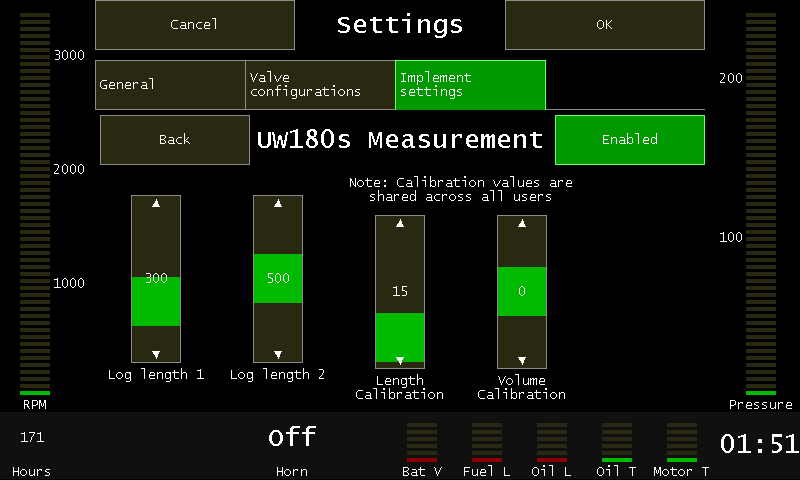
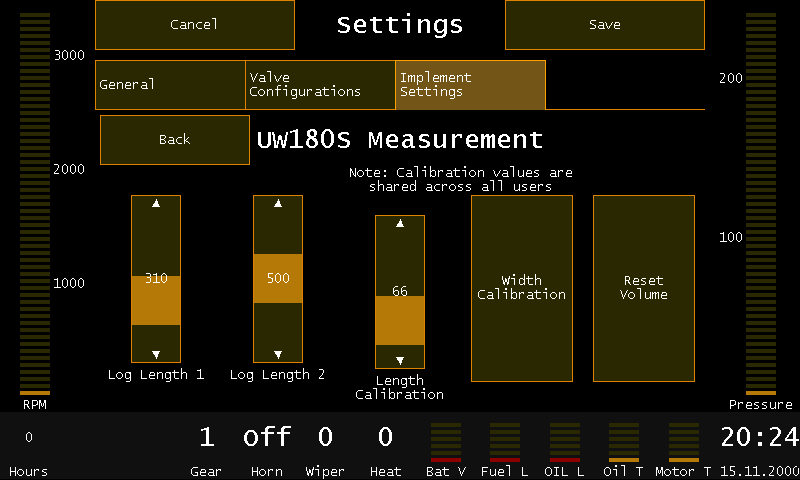
uw180s manual translations send

diff --git a/docs/manual/uw_dspl_manual.tex b/docs/manual/uw_dspl_manual.tex
@@ -22,7 +22,6 @@
 \end{center}
 \vspace{1cm}
 \begin{center}
-\includegraphics[width=8cm]{img/Usevolt.png}   % Bilingual logo
 \end{center}
 
 
@@ -224,8 +223,22 @@ Implement settings are used to configure the settings in the currently selected 
 \fig{img/settings_uw180s}{Implement settings screen}{settings_implement}
 
 \begin{tabular}{ L{0.2\textwidth} L{0.66\textwidth} }
+\textbf{General} & UW180s general settings define miscellaneous settings that affect the overall performance of the UW180s harvester head. \\
 \textbf{Log Measurement} & UW180s measurement device settings are used to enabled of disable the measuring system as well as calibrating it. \\
 \textbf{Valve Configurations} & UW180s hydraulic valve configurations. Similar to base machine valve configurations in \autoref{ch:settings_valves}. \\
+\end{tabular}
+
+\FloatBarrier
+\subsection{UW180s general settings}\label{ch:settings_uw180s_meas}
+
+\fig{img/settings_uw180s_general}{UW180s measurement settings screen}{settings_uw180s_general}
+
+\begin{tabular}{ L{0.2\textwidth} L{0.66\textwidth} }
+\textbf{Back} & Returns back to UW180s Implement settings screen \\
+\textbf{Rollers grab time} & Specifies the amount of closing force that UW180s holds the tree with rollers while feeding. Higher value results in stronger grab of the tree. \\
+\textbf{Blades grab time} & Specifies the amount of closing force that UW180s holds the tree with blades while feeding. Higher value results in stronger grab of the tree. \\
+\textbf{Tilt float enable} & If the UW180s is assemblied with a tilt floating valve, enabling this button will enable the tilt float feature after using the saw to fell a tree. The float is disabled by manually using the tilt. \\
+\textbf{Tilt on left thumb} & If this button is enabled, the left thumb joystick rocker switch is used to manually control the tilt. When this button is disabled, tilt is controlled with left keypad buttons. \\
 \end{tabular}
 
 \FloatBarrier
@@ -238,8 +251,22 @@ Implement settings are used to configure the settings in the currently selected 
 \textbf{Enabled} & When selected (button is green), the measuring device is enabled. \\
 \textbf{Log length 1} & The 1st log target length in millimeters. \\
 \textbf{Log length 2} & The 2nd log target length in millimeters. \\
-\textbf{Length Calibration} & Calibrates the length measurement. The value indicates how logn distance the log travels on each length measurement sensor's pulse. Increasing the calibration value decreases the actual length of the logs. \\
-\textbf{Volume Calibration} & Calibrates the volume calculation. Works as a after-scaler in the volume calculation. Increasing the calibration value causes the calculated volume to increase as well. \\
+\textbf{Length Calibration} & Calibrates the length measurement. The value indicates how long distance the log travels on each length measurement sensor's pulse. Increasing the calibration value decreases the actual length of the logs. \\
+\textbf{Width Calibration} & Shows the width and volume calibration window. \\
+\textbf{Reset Volume} & Resets the calculated volume to 0. \\
+\end{tabular}
+
+\FloatBarrier
+\subsection{UW180s width calibration settings}\label{ch:settings_uw180s_width}
+
+\fig{img/settings_uw180s_meas_width}{UW180s width settings screen}{settings_uw180s_width}
+
+\begin{tabular}{ L{0.2\textwidth} L{0.66\textwidth} }
+\textbf{Back} & Returns back to UW180s Implement settings screen \\
+\textbf{Calibrate MIN angles} & Calibrates the closed-state of the UW180s rollers. The rollers should be closed to their minimum position before clicking this button. \\
+\textbf{Calibrate MAX angles} & Calibrates the open-state of the UW180s rollers. The rollers should be opened to their maximum position before clicking this button. \\
+\textbf{Min diam} & Sets the diameter of the tree in millimeters when the UW180s rollers are fully closed. \\
+\textbf{Max diam} & Sets the diameter of the tree in millimeters when the UW180s rollers are fully opened. \\
 \end{tabular}
 
 \FloatBarrier

diff --git a/docs/manual/uw_naytto_manuaali.tex b/docs/manual/uw_naytto_manuaali.tex
@@ -222,21 +222,49 @@ Työlaiteasetukset määrittävät valitun työlaitteen asetukset. Työlaitteen 
 \fig{img/settings_uw180s}{Työlaitteen asetukset}{settings_implement}
 
 \begin{tabular}{ L{0.2\textwidth} L{0.66\textwidth} }
+\textbf{General} & UW180s hakkuukouran yleiset asetukset. \\
 \textbf{Log Measurement} & Pöllin mittausasetukset ja mittalaitteen kalibrointiasetukset\\
 \textbf{Valve Configurations} & UW180s Venttiiliasetukset 
 \end{tabular}
 
 \FloatBarrier
-\subsection{UW180s mittalaiteasetukset}\label{ch:settings_uw180s_meas}
+\subsection{UW180s yleiset asetukset}\label{ch:settings_uw180s_meas}
+
+\fig{img/settings_uw180s_general}{UW180s measurement settings screen}{settings_uw180s_general}
+
+\begin{tabular}{ L{0.2\textwidth} L{0.66\textwidth} }
+\textbf{Back} & Palaa takaisin UW180s asetukset -näyttöön. \\
+\textbf{Rollers grab time} & Määrittelee puristusvoiman, millä UW180s puristaa puura vetorullilla sitä karsiessa. Mitä suurempi lukema, sitä kovempi puun puristus. \\
+\textbf{Blades grab time} & Määrittelee puristusvoiman, millä UW180s puristaa puuta vetorullilla sitä karsiessa. Mitä suurempi lukema, sitä kovempi puun puristus. \\
+\textbf{Tilt float enable} & Jos UW180s on varustettu tiltin kelluntaventtiilillä, tämä painike kytkee tiltin kellumaan sen jälkeen, kun puu on kaadettu sahaa käyttämällä. Tiltin kellunta kytketään pois käyttämällä tilttiä manuaalisesti. \\
+\textbf{Tilt on left thumb} & Jos tämä painike on valittuna, tilttiä hallitaan vasemman ohjauskahvan peukalon keinukytkimellä. Jos painike ei ole valittuna, tilttiä hallitaan vasemman näppäimistön näppäimillä. \\
+\end{tabular}
+
+\FloatBarrier
+\subsection{UW180s mittalaitteen asetukset}\label{ch:settings_uw180s_meas}
 
 \fig{img/settings_uw180s_meas}{UW180s measurement settings screen}{settings_uw180s_meas}
 
 \begin{tabular}{ L{0.2\textwidth} L{0.66\textwidth} }
-\textbf{Back} & Palaa takaisin UW180s asetuksiin. \\
-\textbf{Log length 1} & Ensimmäinen pöllin pituus millimetreissä. \\
-\textbf{Log length 2} & Toinen pöllin pituus millimetreissä. \\
-\textbf{Length Calibration} & Kalibrointiarvo pituusmitalle. Mitä suurempi arvo tähän laitetaan, sitä lyhyempiä pöllejä kone tekee. \\
-\textbf{Volume Calibration} & Tilavuuden laskennan korjauskerroin. \\
+\textbf{Back} & Palaa takaisin UW180s asetukset -näyttöön. \\
+\textbf{Log length 1} & Ensimmäinen valittu pöllin tavoitepituus millimetreissä. \\
+\textbf{Log length 2} & Toinen pöllin tavoitepituus millimetreissä. \\
+\textbf{Length Calibration} & Kalibroi pituusmittalaitteen. Arvo määrittelee, kuinka pitkänä mittalaite laskee jokaisen mitta-anturin pulssin. Arvoa kasvattamalla pöllin pituus lyhenee. \\
+\textbf{Width Calibration} & Avaa paksuuden ja tilavuuden kalibroimisnäytön. \\
+\textbf{Reset Volume} & Resetoi lasketun tilavuuden nollaksi. \\
+\end{tabular}
+
+\FloatBarrier
+\subsection{UW180s paksuuden kalibrointiasetukset}\label{ch:settings_uw180s_width}
+
+\fig{img/settings_uw180s_meas_width}{UW180s width settings screen}{settings_uw180s_width}
+
+\begin{tabular}{ L{0.2\textwidth} L{0.66\textwidth} }
+\textbf{Back} & Palaa takaisin UW180s asetukset -näyttöön. \\
+\textbf{Calibrate MIN angles} & Kalibroi UW180s hakkuuukouran rullien suljetun asennon. Rullat tulee olla täysin suljettuna kun tätä painiketta painetaan. \\
+\textbf{Calibrate MAX angles} & Kalibroi UW180s hakkuukouran rullien avatun asennon. Rullat tulee olla täysin avattuna kun tätä painiketta painetaan. \\
+\textbf{Min diam} & Asettaa puun halkaisijan millimetreissä kun rullat ovat täysin suljetut. \\
+\textbf{Max diam} & Asettaa puun halkaisijan millimetreissä kun rullat ovat täysin avatut. \\
 \end{tabular}
 
 \FloatBarrier

diff --git a/sw/src/commands.c b/sw/src/commands.c
@@ -348,10 +348,7 @@ void screenshot_callb(void *me, unsigned int cmd, unsigned int args, argument_st
 			CONFIG_LCD_LINES_PER_PANEL *
 			sizeof(LCD_PIXEL_TYPE);
 
-	for (uint32_t i = 0; i < len; i++) {
-		uint8_t *l = (uint8_t*) lcd;
-		printf("%x", l[i]);
-	}
+	printf("display buffer address: 0x%x, len: 0x%x\n", (unsigned int) lcd, len);
 
 }
 
